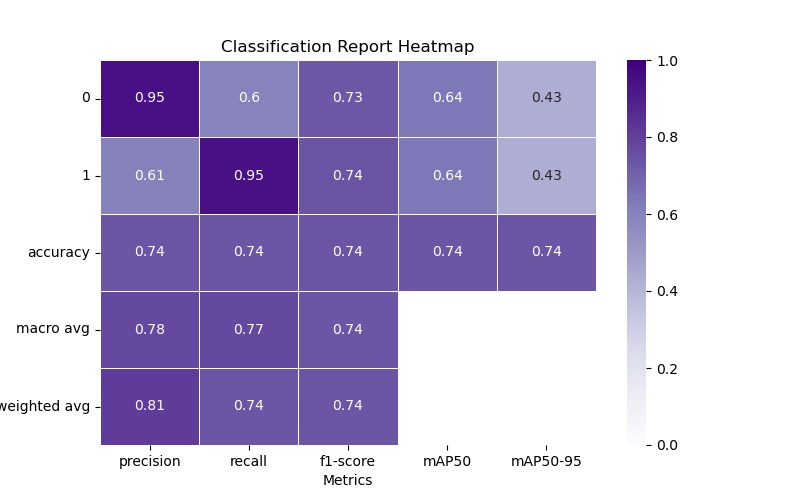
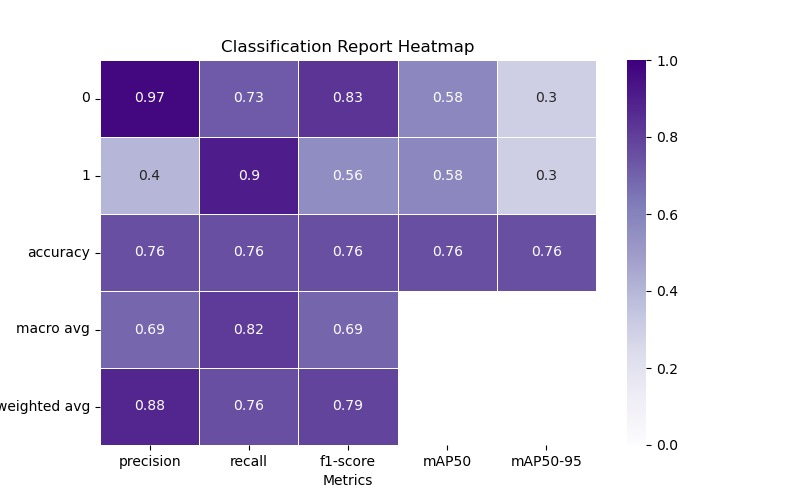
fix: update accuracy metrics and related statistics in Dashboard component

diff --git a/src/pages/Dashboard.jsx b/src/pages/Dashboard.jsx
@@ -40,7 +40,7 @@ export default function ProjectInformation() {
         </h1>
         <div className="flex items-center justify-center gap-2 mb-4">
           <span className="inline-flex items-center rounded-full px-2.5 py-0.5 text-xs font-medium bg-green-500 text-white">
-            74% Accuracy
+            76% Accuracy
           </span>
           <span className="inline-flex items-center rounded-full px-2.5 py-0.5 text-xs font-medium bg-blue-500 text-white">
             Validated
@@ -103,37 +103,37 @@ export default function ProjectInformation() {
                   <div className="grid grid-cols-2 gap-6 mb-6">
                     <div className="bg-gradient-to-br from-blue-50 to-indigo-50 p-4 rounded-xl border border-blue-100 flex flex-col">
                       <div className="text-sm text-gray-500 mb-1">Accuracy</div>
-                      <div className="text-3xl font-bold text-blue-700">74%</div>
-                      <div className="mt-2 flex items-center text-xs text-pink-700">
-                        <TrendingDown className="h-3 w-3 mr-1" />
-                        <span>-2.3% from baseline</span>
+                      <div className="text-3xl font-bold text-blue-700">76%</div>
+                      <div className="mt-2 flex items-center text-xs text-green-500">
+                        <TrendingUp className="h-3 w-3 mr-1" />
+                        <span>+2.70 %from baseline</span>
                       </div>
                     </div>
 
                     <div className="bg-gradient-to-br from-purple-50 to-pink-50 p-4 rounded-xl border border-purple-100 flex flex-col">
                       <div className="text-sm text-gray-500 mb-1">Precision</div>
-                      <div className="text-3xl font-bold text-purple-700">81%</div>
-                      <div className="mt-2 flex items-center text-xs text-pink-700">
-                        <TrendingDown className="h-3 w-3 mr-1" />
-                        <span>-4.71% from baseline</span>
+                      <div className="text-3xl font-bold text-purple-700">88%</div>
+                       <div className="mt-2 flex items-center text-xs text-green-500">
+                        <TrendingUp className="h-3 w-3 mr-1" />
+                        <span>+8.64% from baseline</span>
                       </div>
                     </div>
 
                     <div className="bg-gradient-to-br from-pink-50 to-rose-50 p-4 rounded-xl border border-pink-100 flex flex-col">
                       <div className="text-sm text-gray-500 mb-1">Recall</div>
-                      <div className="text-3xl font-bold text-pink-700">74%</div>
-                      <div className="mt-2 flex items-center text-xs text-pink-700">
-                        <TrendingDown className="h-3 w-3 mr-1" />
-                        <span>–1.33% from baseline</span>
+                      <div className="text-3xl font-bold text-pink-700">76%</div>
+                      <div className="mt-2 flex items-center text-xs text-green-500">
+                        <TrendingUp className="h-3 w-3 mr-1" />
+                        <span>+2.70 % from baseline</span>
                       </div>
                     </div>
 
                     <div className="bg-gradient-to-br from-amber-50 to-yellow-50 p-4 rounded-xl border border-amber-100 flex flex-col">
                       <div className="text-sm text-gray-500 mb-1">F1 Score</div>
-                      <div className="text-3xl font-bold text-amber-700">74%</div>
-                      <div className="mt-2 flex items-center text-xs text-pink-700">
-                        <TrendingDown className="h-3 w-3 mr-1" />
-                        <span>–2.63% from baseline</span>
+                      <div className="text-3xl font-bold text-amber-700">79%</div>
+                      <div className="mt-2 flex items-center text-xs text-green-500">
+                        <TrendingUp className="h-3 w-3 mr-1" />
+                        <span>+6.76 % from baseline</span>
                       </div>
                     </div>
                   </div>
@@ -207,13 +207,13 @@ export default function ProjectInformation() {
                       <div className="flex justify-between items-center mb-1">
                         <span className="text-sm text-gray-500">True Positives</span>
                         <span className="text-xs font-medium text-green-700 bg-green-100 px-2 py-0.5 rounded-full">
-                          36.41%
+                          60.4%
                         </span>
                       </div>
-                      <div className="text-2xl font-bold text-green-700">1033</div>
+                      <div className="text-2xl font-bold text-green-700">451</div>
                       <div className="mt-2">
                         <div className="w-full bg-green-100 rounded-full h-2">
-                          <div className="bg-green-500 h-2 rounded-full" style={{ width: " 36.41%" }}></div>
+                          <div className="bg-green-500 h-2 rounded-full" style={{ width: "60.4%" }}></div>
                         </div>
                       </div>
                     </div>
@@ -222,13 +222,13 @@ export default function ProjectInformation() {
                       <div className="flex justify-between items-center mb-1">
                         <span className="text-sm text-gray-500">False Positives</span>
                         <span className="text-xs font-medium text-red-700 bg-red-100 px-2 py-0.5 rounded-full">
-                          24.27%
+                          22.8%
                         </span>
                       </div>
-                      <div className="text-2xl font-bold text-red-700">689</div>
+                      <div className="text-2xl font-bold text-red-700">170</div>
                       <div className="mt-2">
                         <div className="w-full bg-red-100 rounded-full h-2">
-                          <div className="bg-red-500 h-2 rounded-full" style={{ width: "24.27%" }}></div>
+                          <div className="bg-red-500 h-2 rounded-full" style={{ width: "22.8%" }}></div>
                         </div>
                       </div>
                     </div>
@@ -237,13 +237,13 @@ export default function ProjectInformation() {
                       <div className="flex justify-between items-center mb-1">
                         <span className="text-sm text-gray-500">False Negatives</span>
                         <span className="text-xs font-medium text-amber-700 bg-amber-100 px-2 py-0.5 rounded-full">
-                          2.08%
+                          1.6 %
                         </span>
                       </div>
-                      <div className="text-2xl font-bold text-amber-700">59</div>
+                      <div className="text-2xl font-bold text-amber-700">12</div>
                       <div className="mt-2">
                         <div className="w-full bg-amber-100 rounded-full h-2">
-                          <div className="bg-amber-500 h-2 rounded-full" style={{ width: "2.08%" }}></div>
+                          <div className="bg-amber-500 h-2 rounded-full" style={{ width: "1.6%" }}></div>
                         </div>
                       </div>
                     </div>
@@ -252,13 +252,13 @@ export default function ProjectInformation() {
                       <div className="flex justify-between items-center mb-1">
                         <span className="text-sm text-gray-500">True Negatives</span>
                         <span className="text-xs font-medium text-blue-700 bg-blue-100 px-2 py-0.5 rounded-full">
-                          37.25%
+                          15.3%
                         </span>
                       </div>
-                      <div className="text-2xl font-bold text-blue-700">1057</div>
+                      <div className="text-2xl font-bold text-blue-700">114</div>
                       <div className="mt-2">
                         <div className="w-full bg-blue-100 rounded-full h-2">
-                          <div className="bg-blue-500 h-2 rounded-full" style={{ width: "37.25%" }}></div>
+                          <div className="bg-blue-500 h-2 rounded-full" style={{ width: "15.3%" }}></div>
                         </div>
                       </div>
                     </div>
@@ -267,10 +267,10 @@ export default function ProjectInformation() {
 
                 <div className="bg-gray-50 border-t px-6 py-4">
                   <div className="w-full flex justify-between items-center text-sm text-gray-500">
-                    <span>Total samples: 2,838</span>
+                    <span>Total samples: 747</span>
                     <span className="flex items-center">
                       <CheckCircle2 className="h-4 w-4 text-green-500 mr-1" />
-                      74% overall accuracy
+                      76% overall accuracy
                     </span>
                   </div>
                 </div>
